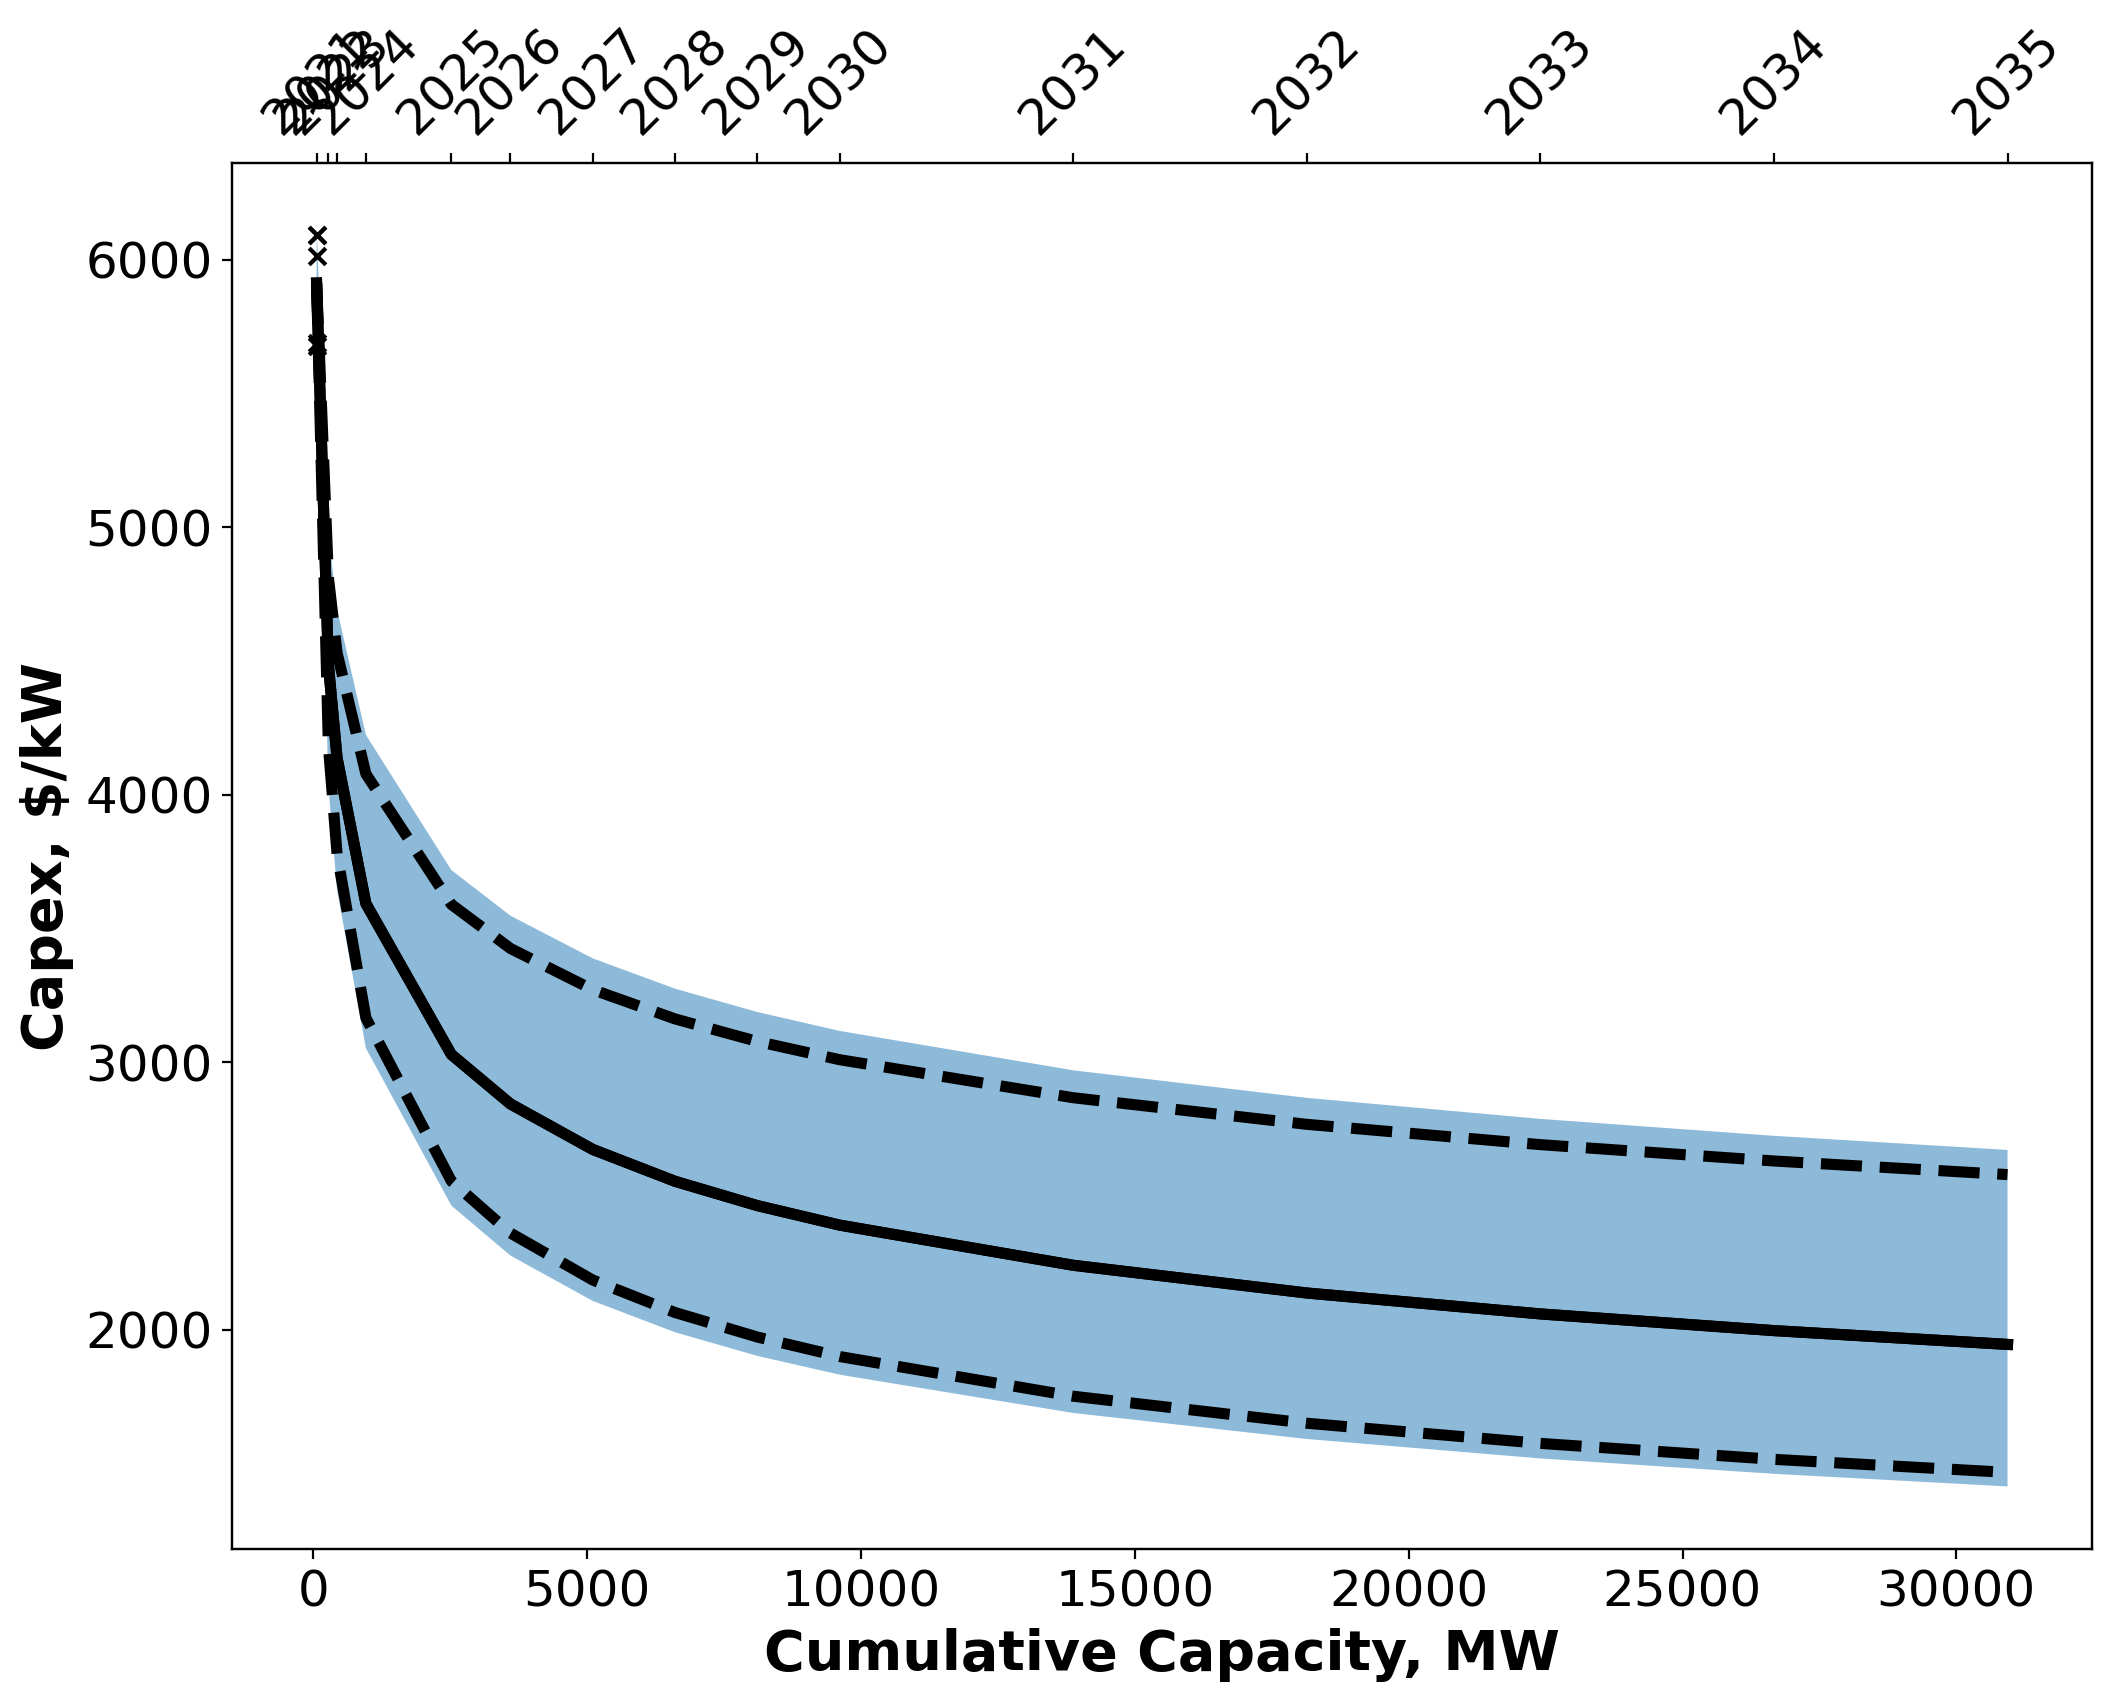
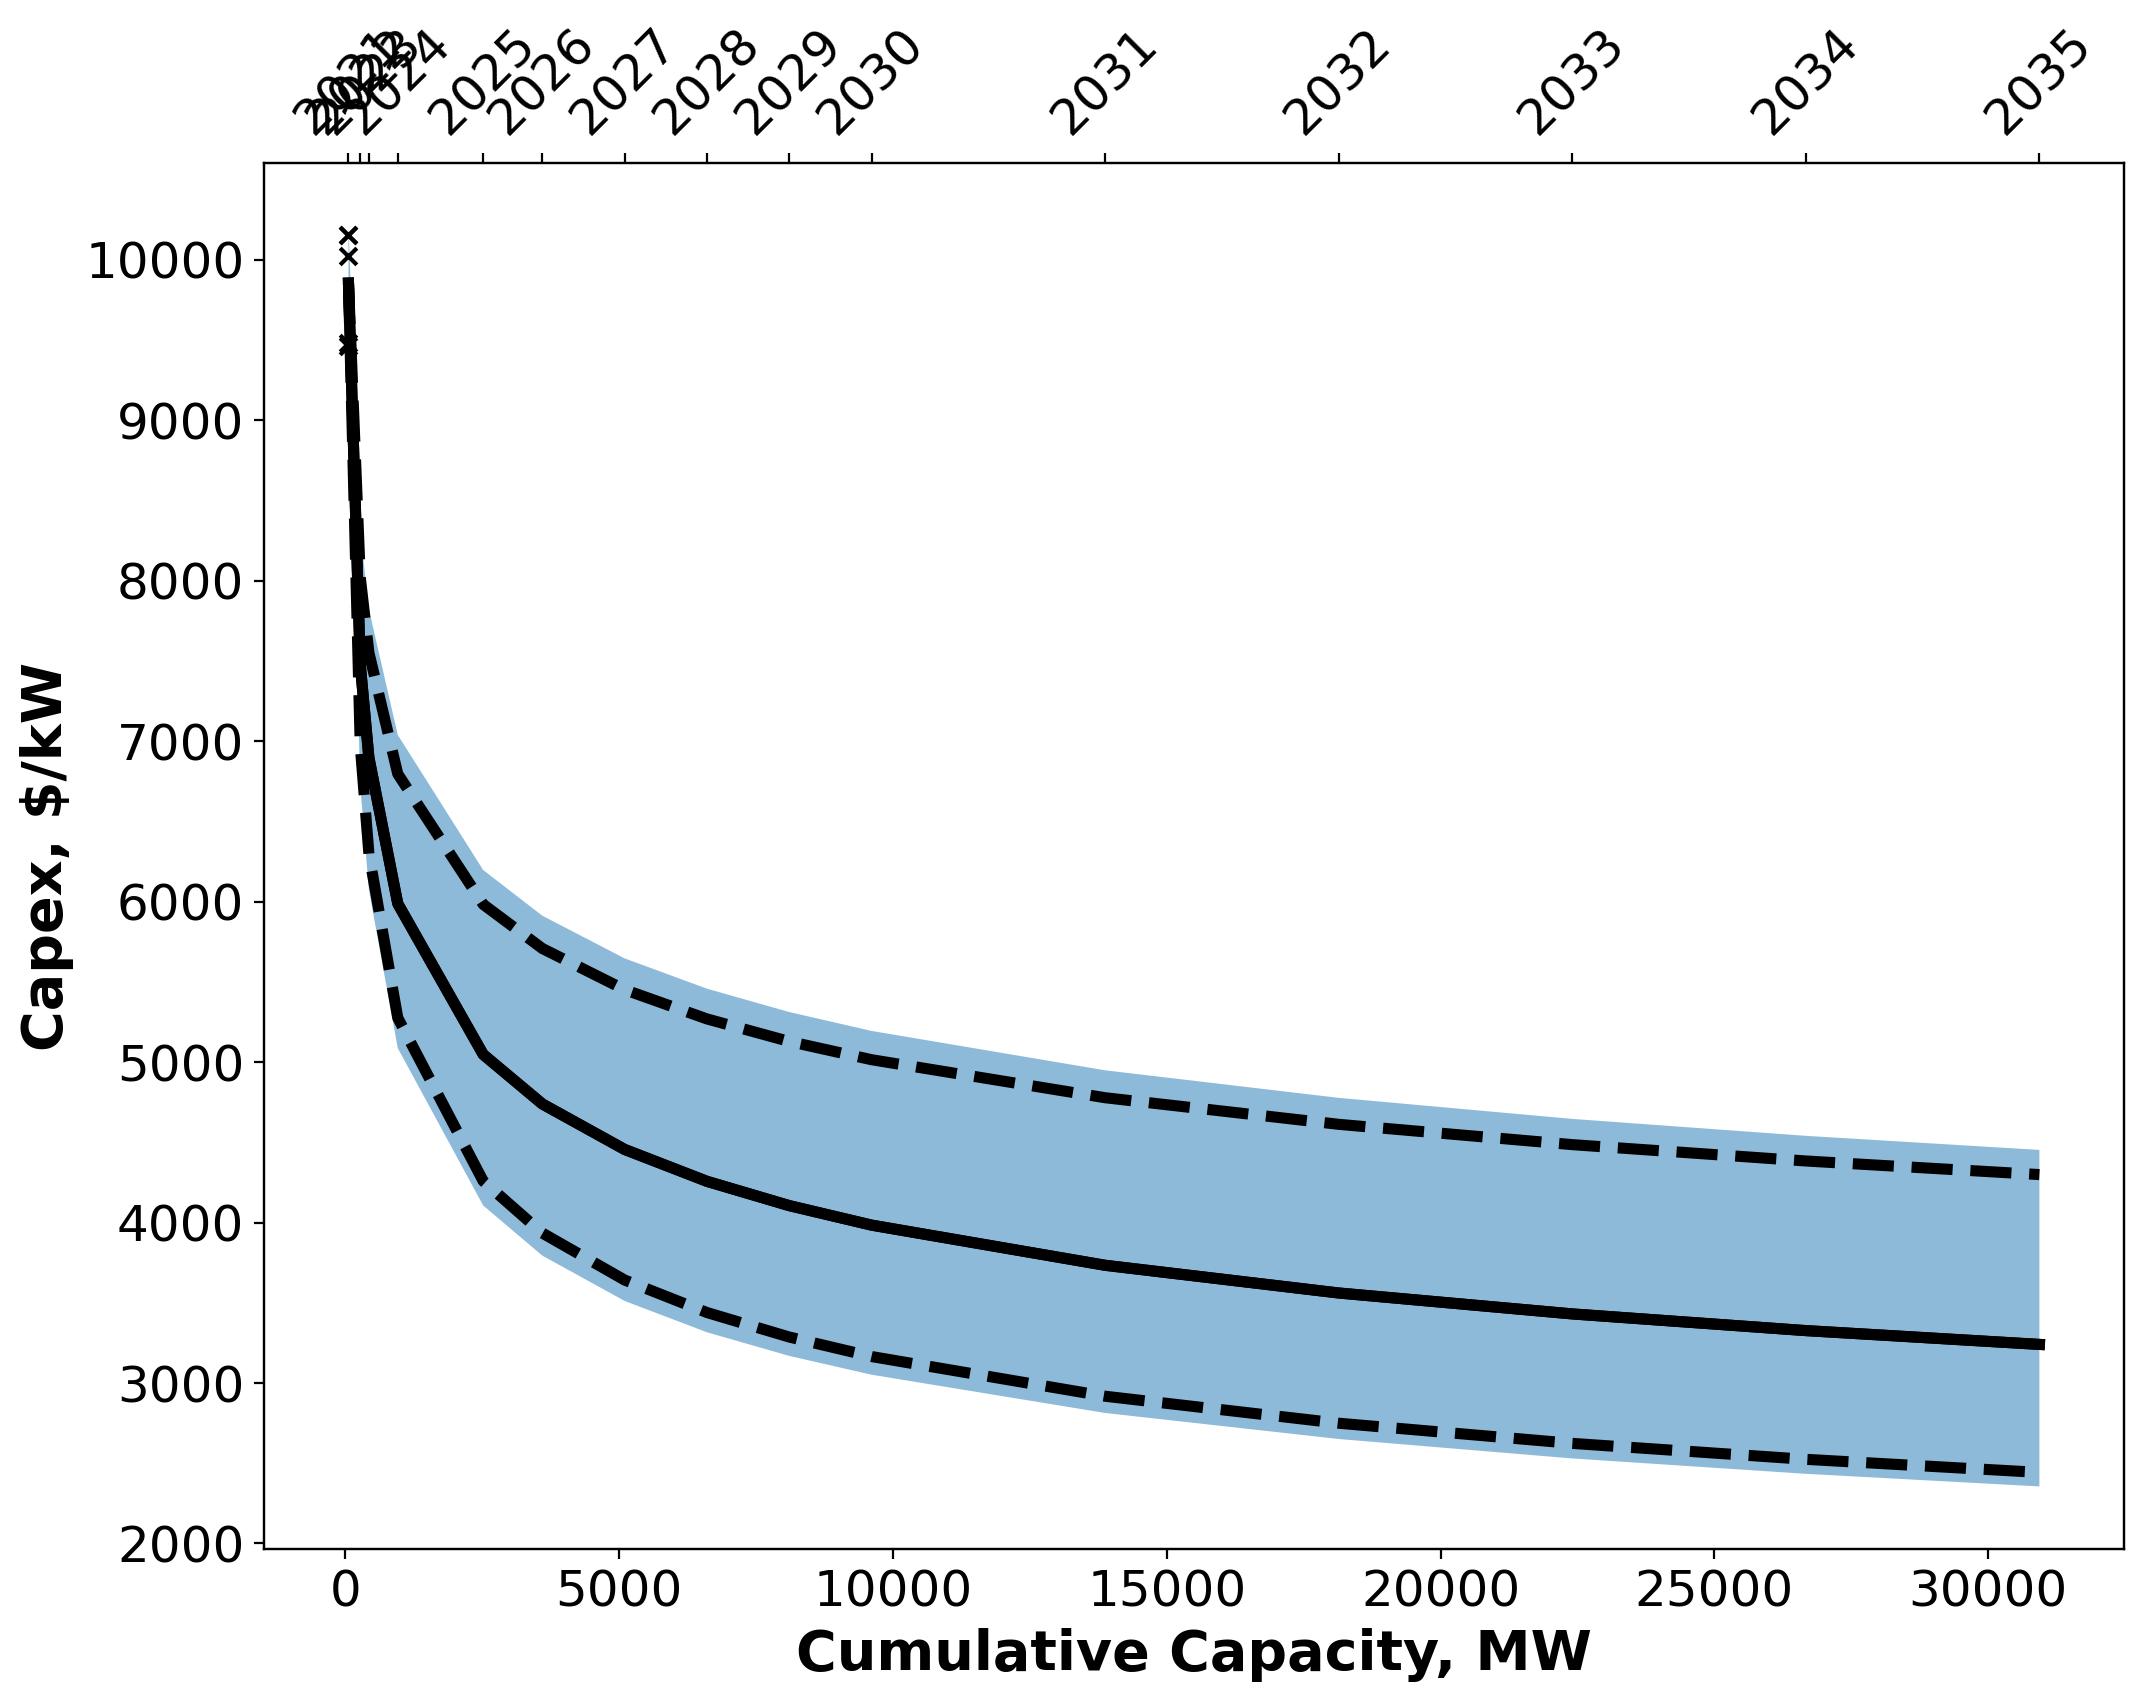
Added LCOE waterfall calculation for DOE

diff --git a/analysis/orbit_comparison.py b/analysis/orbit_comparison.py
@@ -38,7 +38,7 @@ plot_deployment(list(FORECAST_FIXED.keys()), list(FORECAST_FIXED.values()),
                 )
 
 ## Scaling factor for demonstration-scale floating capex
-FLOATING_DEMO_SCALE = 1.5  # Update to match BNEF
+FLOATING_DEMO_SCALE = 2.5    # Update to match BNEF
 FLOATING_CAPACITY_2020 = 91   # Cumulative capacity as of previous year.  From OWMR.
 
 ## Regression Settings
@@ -171,7 +171,7 @@ def run_regression(projects, filters, to_aggregate, to_drop, predictors):
         drop_country=to_drop,
         log_vars=['Cumulative Capacity', 'CAPEX_per_kw'],
     )
-    print(regression.summary)
+    # print(regression.summary)
     return regression
 
 def stats_check(regression):
@@ -382,6 +382,7 @@ def regression_and_plot(FORECAST, PROJECTS, FILTERS, TO_AGGREGATE, TO_DROP, PRED
                             values='OpEx', index='index').loc[:, 'OpEx'])
     avg_aep = np.array(pd.pivot_table(combined_outputs.reset_index(),
                             values='AEP', index='index').loc[:, 'AEP'])
+    aep_min_lcoe = np.array(combined_outputs_min_aggressive[(combined_outputs_min_aggressive['Site']=='Site 1')]['AEP'])
     avg_fcr = np.array(pd.pivot_table(combined_outputs.reset_index(),
                             values='FCR', index='index').loc[:, 'FCR'])
     # LCOE
@@ -399,14 +400,17 @@ def regression_and_plot(FORECAST, PROJECTS, FILTERS, TO_AGGREGATE, TO_DROP, PRED
     pd.DataFrame({
         'Year': years,
         'Capex': avg_capex,
+        'Min capex': min_capex_aggressive,
         'Capex percent reductions': 1 - avg_capex / avg_capex[0],
         'Opex': avg_opex,
-        'AEP': avg_aep,
+        'AEP': aep_min_lcoe,
         'FCR': avg_fcr,
         'LCOE': avg_lcoe,
-        'LCOE percent reductions': 1 - avg_lcoe/ avg_lcoe[0]
+        'Min LCOE': min_lcoe_aggressive,
+        'LCOE percent reductions': 1 - avg_lcoe/ avg_lcoe[0],
     }).to_csv('results/' + fixfloat + '_data_out.csv')
 
+    combined_outputs_min_aggressive.to_csv('results/' + fixfloat + '_combined_data_out.csv')
 
     ### Plotting
     # Forecast
@@ -455,9 +459,6 @@ def regression_and_plot(FORECAST, PROJECTS, FILTERS, TO_AGGREGATE, TO_DROP, PRED
 ### Main Script
 if __name__ == "__main__":
 
-    # Fixed bottom
-    regression_and_plot(FORECAST_FIXED, PROJECTS, FILTERS, TO_AGGREGATE, TO_DROP, FIXED_PREDICTORS, ORBIT_FIXED_SITES,
-                        opex_scale=1, ncf_scale=1)
 
     # Floating
     regression_and_plot(FORECAST_FLOATING, PROJECTS, FILTERS, TO_AGGREGATE, TO_DROP, FLOAT_PREDICTORS, ORBIT_FLOATING_SITES,

diff --git a/analysis/LCOE_waterfall.py b/analysis/LCOE_waterfall.py
@@ -1,0 +1,71 @@
+"""
+Take LCOE trajectories and create waterfall plot
+"""
+
+import numpy as np
+import pandas as pd
+import waterfall_chart
+import matplotlib.pyplot as plt
+
+if __name__ == '__main__':
+    df = pd.read_csv('results/floating_data_out.csv')
+    print(df)
+    # print(df['Min capex'], df['Opex'], df['AEP'])
+
+    year1 = 2023
+    year2 = 2035    
+
+    def lcoe_calc(c, o, a, f):
+        lcoe = 1000 * (f * c + o) / a
+        return lcoe
+
+    def delta_lcoe_calc(df, ind):        
+
+        capex = df[(df['Year']==year1)]['Min capex'].to_numpy()[0] 
+        opex = df[(df['Year']==year1)]['Opex'].to_numpy()[0]
+        aep = df[(df['Year']==year1)]['AEP'].to_numpy()[0]
+        fcr = df[(df['Year'] == year1)]['FCR'].to_numpy()[0]
+
+        if ind == 'Min capex':
+            d_capex = df[(df['Year']==year2)]['Min capex'].to_numpy()[0] 
+            d_fcr = df[(df['Year']==year2)]['FCR'].to_numpy()[0]
+            d_lcoe = lcoe_calc(capex, opex, aep, fcr) - lcoe_calc(d_capex, opex, aep, d_fcr)
+        elif ind == 'Opex':
+            d_opex = df[(df['Year'] == year2)]['Opex'].to_numpy()[0]
+            d_lcoe = lcoe_calc(capex, opex, aep, fcr) - lcoe_calc(capex, d_opex, aep, fcr)
+        elif ind == 'AEP':
+            d_aep = df[(df['Year'] == year2)]['AEP'].to_numpy()[0]
+            d_lcoe = lcoe_calc(capex, opex, aep, fcr) - lcoe_calc(capex, opex, d_aep, fcr)
+        elif ind == 'FCR':
+            d_fcr = df[(df['Year'] == year2)]['FCR'].to_numpy()[0]
+            d_lcoe = lcoe_calc(capex, opex, aep, fcr) - lcoe_calc(capex, opex, aep, d_fcr)
+        return d_lcoe
+
+    delta_lcoe = {}
+
+    delta_lcoe['Capex'] = delta_lcoe_calc(df, 'Min capex')
+    delta_lcoe['Opex'] = delta_lcoe_calc(df, 'Opex')
+    delta_lcoe['AEP'] = delta_lcoe_calc(df, 'AEP')
+    # delta_lcoe['FCR'] = delta_lcoe_calc(df, 'FCR')
+
+    waterfall = [np.ceil(df[(df['Year'] == year1)]['Min LCOE'].to_numpy()[0]),
+        -delta_lcoe['Capex'],
+        -delta_lcoe['Opex'],
+        -delta_lcoe['AEP'],
+    # -delta_lcoe['FCR']
+    ]
+    
+
+    waterfall_chart.plot(['Baseline \nPlant','CapEx*', 'OpEx', 'Energy \nProduction'], waterfall,
+        net_label='2035 Conceptual \nPlant',
+        blue_color='grey',
+        green_color='grey',
+        red_color='darkgreen',
+        y_lab='LCOE (2020$/MWh)',
+        rotation_value=0
+        )
+        
+    plt.ylim([0, 225])
+    
+    plt.savefig('results/waterfall.png', dpi=300, bbox_inches='tight')
+
